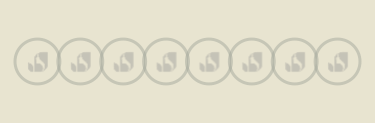
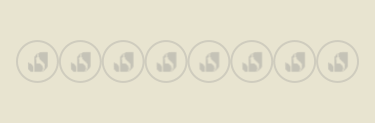
Cambios pass wallet

diff --git a/scripts/generateStampStrips.js b/scripts/generateStampStrips.js
@@ -103,14 +103,13 @@ async function generateStripImage(logoImage, activeStamps, outputPath) {
     // Aplicar efecto según estado
     applyStampEffect(ctx, logoImage, x, centerY, stampSize, isActive);
     
-    // Borde circular sutil para sellos inactivos
+    // Borde circular sutil para sellos inactivos (opcional)
     if (!isActive) {
       ctx.save();
-      ctx.strokeStyle = '#A5A89D';
-      ctx.lineWidth = 3;
-      ctx.globalAlpha = 0.5;
+      ctx.strokeStyle = 'rgba(150, 150, 150, 0.3)';
+      ctx.lineWidth = 2;
       ctx.beginPath();
-      ctx.arc(x, centerY, stampSize / 2 + 5, 0, Math.PI * 2);
+      ctx.arc(x, centerY, stampSize / 2 + 3, 0, Math.PI * 2);
       ctx.stroke();
       ctx.restore();
     }
@@ -145,27 +144,63 @@ async function generateAllStrips() {
       fs.mkdirSync(outputDir, { recursive: true });
     }
     
-    console.log('🎨 Generando strips de sellos...\n');
+    // ============= VERSIÓN 1x (375x123px) =============
+    console.log('🎨 Generando strips 1x (375x123px)...\n');
     
-    // Generar imagen para cada estado (0-8 sellos activos)
-    // Generar SOLO versión 1x (375x123px) - Apple Wallet la escala automáticamente
     for (let i = 0; i <= CONFIG.stampCount; i++) {
       const filename = `stamp-strip-${i}.png`;
       const filepath = path.join(outputDir, filename);
       await generateStripImage(logoImage, i, filepath);
     }
     
-    console.log(`\n✅ ¡Listo! Se generaron ${CONFIG.stampCount + 1} strips en: public/assets/`);
-    console.log(`   Dimensiones: ${CONFIG.width}x${CONFIG.height}px (exactas para iPhone)\n`);
-    console.log('📋 Archivos creados:');
-    console.log('   stamp-strip-0.png  (sin sellos)');
-    for (let i = 1; i < CONFIG.stampCount; i++) {
-      console.log(`   stamp-strip-${i}.png  (${i}/${CONFIG.stampCount} sellos)`);
-    }
-    console.log(`   stamp-strip-${CONFIG.stampCount}.png  (¡completo! 🎉)\n`);
+    console.log('\n✅ Versiones 1x generadas\n');
     
-    console.log('💡 Tip: Apple Wallet escala automáticamente para Retina');
-    console.log('💡 Si quieres @2x, cambia CONFIG.width a 750 y CONFIG.height a 246');
+    // ============= VERSIÓN 2x (750x246px) =============
+    console.log('🎨 Generando strips @2x (750x246px para Retina)...\n');
+    
+    // Guardar configuración original
+    const originalWidth = CONFIG.width;
+    const originalHeight = CONFIG.height;
+    const originalStampSize = CONFIG.stampSize;
+    const originalPadding = CONFIG.padding;
+    const originalSpacing = CONFIG.spacing;
+    
+    // Duplicar tamaños para versión @2x
+    CONFIG.width = 750;
+    CONFIG.height = 246;
+    CONFIG.stampSize = 90;
+    CONFIG.padding = 40;
+    CONFIG.spacing = 16;
+    
+    for (let i = 0; i <= CONFIG.stampCount; i++) {
+      const filename = `stamp-strip-${i}@2x.png`;
+      const filepath = path.join(outputDir, filename);
+      await generateStripImage(logoImage, i, filepath);
+    }
+    
+    // Restaurar configuración original
+    CONFIG.width = originalWidth;
+    CONFIG.height = originalHeight;
+    CONFIG.stampSize = originalStampSize;
+    CONFIG.padding = originalPadding;
+    CONFIG.spacing = originalSpacing;
+    
+    console.log('\n✅ Versiones @2x generadas\n');
+    
+    // ============= RESUMEN =============
+    console.log(`✅ ¡Listo! Se generaron ${(CONFIG.stampCount + 1) * 2} imágenes en: public/assets/`);
+    console.log('   - 9 versiones 1x (375x123px) para pantallas normales');
+    console.log('   - 9 versiones @2x (750x246px) para pantallas Retina\n');
+    
+    console.log('📋 Archivos creados:');
+    for (let i = 0; i <= CONFIG.stampCount; i++) {
+      const status = i === 0 ? 'sin sellos' : 
+                     i === CONFIG.stampCount ? '¡completo! 🎉' : 
+                     `${i}/${CONFIG.stampCount} sellos`;
+      console.log(`   - stamp-strip-${i}.png + @2x.png → ${status}`);
+    }
+    
+    console.log('\n💡 Ahora reinicia tu servidor y genera un nuevo pase');
     
   } catch (error) {
     console.error('\n❌ Error:', error.message);
